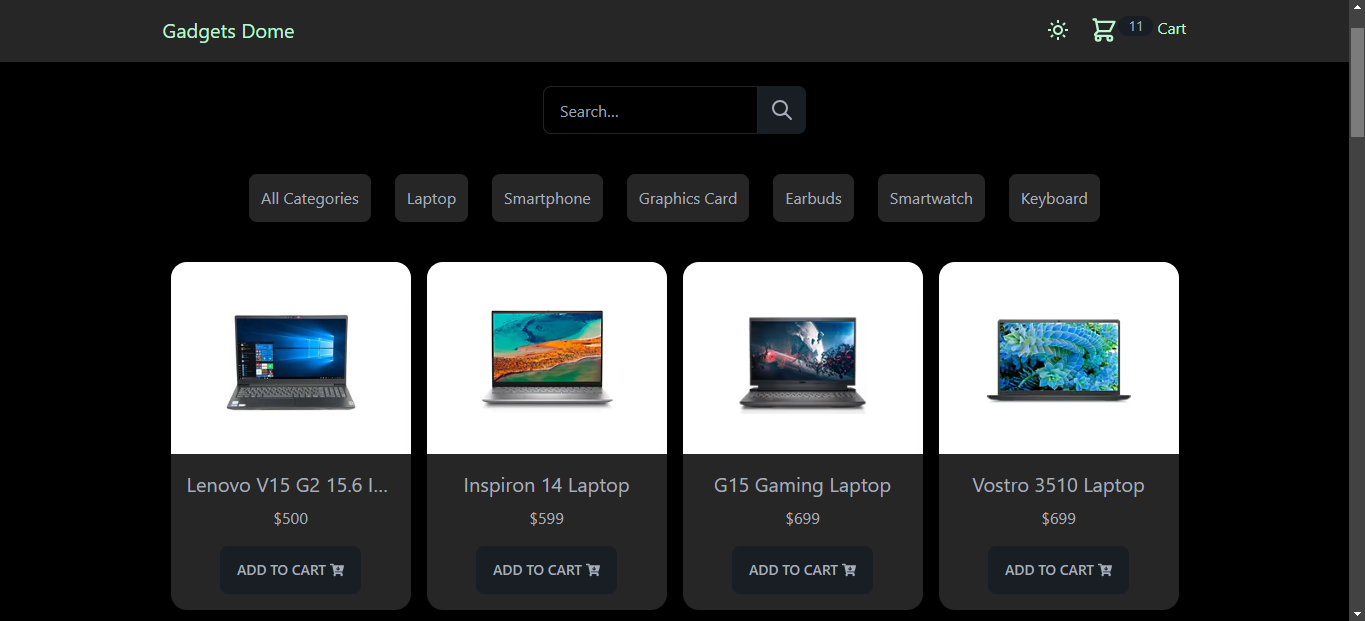
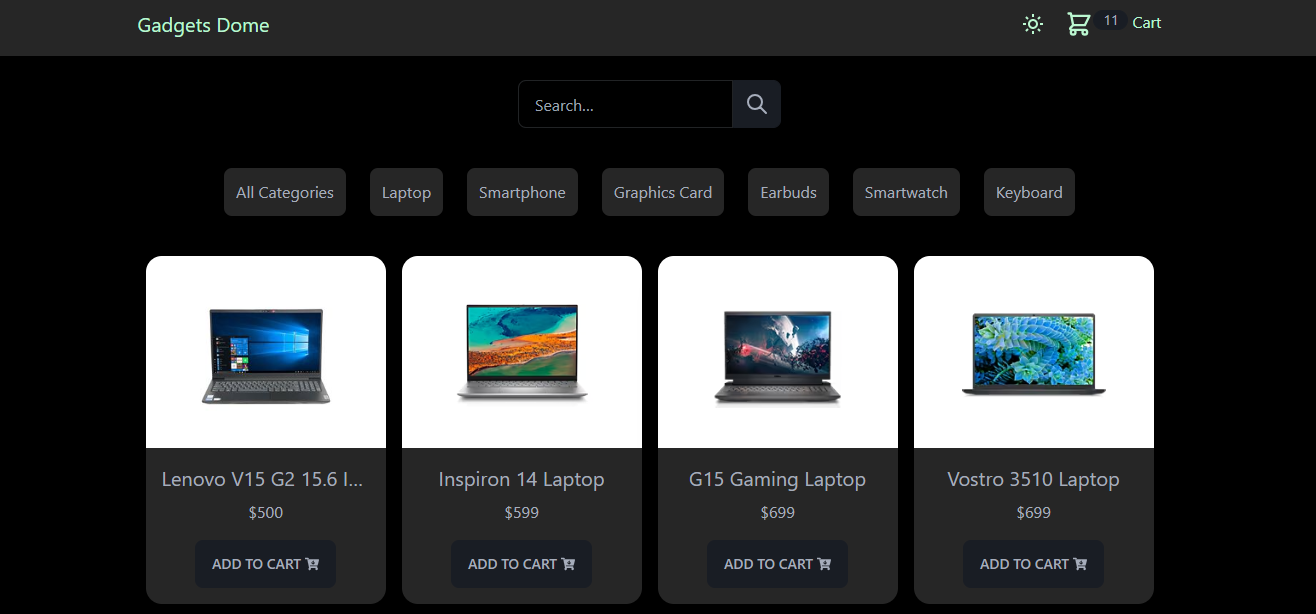
update

diff --git a/src/components/projects/Projects.css b/src/components/projects/Projects.css
@@ -1,82 +1,84 @@
 .projects {
-    margin-bottom: 4rem;
+  margin-bottom: 4rem;
 }
 
 .portfolio__container {
-    grid-template-columns: repeat(2, 1fr);
-    gap: 2.5rem;
-    padding: 0 2.8rem;
+  grid-template-columns: repeat(2, 1fr);
+  gap: 2.5rem;
+  padding: 0 2.8rem;
 }
 
 .portfolio__item {
-    display: grid;
-    place-items: center;
-    background-color: var(--container-color);
-    padding: 1.2rem;
-    border-radius: 2rem;
-    border: 1px solid transparent;
-    transition: .3s;
+  display: grid;
+  place-items: center;
+  background-color: var(--container-color);
+  padding: 0.2rem;
+  border-radius: 2rem;
+  border: 1px solid transparent;
+  transition: 0.3s;
 }
 
 .portfolio__item h3 {
-    margin: 1.2rem 0 2rem;
+  margin: 1.2rem 0 2rem;
 }
 
 .portfolio__item:hover {
-    background-color: transparent;
-    border: 1px solid var(--container-color);
+  background-color: transparent;
+  border: 1px solid var(--container-color);
 }
 
 .portfolio__item-image {
-    border-radius: 1.5rem;
-    overflow: hidden;
+  border-radius: 1.5rem;
+  overflow: hidden;
 }
 
 .portfolio__image {
-    width: 100%;
-    object-fit: cover;
+  width: 100%;
+  height: 100%;
+  object-fit: cover;
+}
+
+.portfolio_item-details {
+  padding: 0 1rem 1rem;
+  text-align: center;
 }
 
 .portfolio__item-cta {
-    display: flex;
-    gap: 1rem;
-    margin-bottom: 1rem;
+  display: flex;
+  gap: 1rem;
+  margin-bottom: 1rem;
 }
 
 .portfolio__icon {
-    margin-left: 0.3rem;
+  margin-left: 0.3rem;
 }
-
-
 
 /*=============== BREAKPOINTS ===============*/
 /* For large devices */
 @media screen and (max-width: 992px) {
-    .portfolio__container{
-        gap: 1.2rem;
-    }
-    .portfolio__btn {
-        padding: 1rem 1rem;
-    } 
+  .portfolio__container {
+    gap: 1.2rem;
   }
-  
-  /* For medium devices */
-  @media screen and (max-width: 768px) {
-    .portfolio__container {
-        grid-template-columns: 1fr;
-        gap: 1rem;
-        padding: 0;
-    }
+  .portfolio__btn {
+    padding: 1rem 1rem;
+  }
+}
 
+/* For medium devices */
+@media screen and (max-width: 768px) {
+  .portfolio__container {
+    grid-template-columns: 1fr;
+    gap: 1rem;
+    padding: 0;
   }
-  
-  @media screen and (max-width: 576px) {
-  }
-  
-  /* For small devices */
-  @media screen and (max-width: 421px) {
-    .portfolio__btn {
-        padding: 1rem 0.75rem;
-    } 
-  }
+}
 
+@media screen and (max-width: 576px) {
+}
+
+/* For small devices */
+@media screen and (max-width: 421px) {
+  .portfolio__btn {
+    padding: 1rem 0.75rem;
+  }
+}

diff --git a/src/components/projects/Projects.jsx b/src/components/projects/Projects.jsx
@@ -1,8 +1,8 @@
 import React from "react";
 import "./Projects.css";
 import IMG1 from "../../assets/orion-anime.png";
-import IMG2 from "../../assets/vega-chat.png";
-import IMG3 from "../../assets/gadgets-dome.png";
+import IMG2 from "../../assets/gadgets-dome.png";
+import IMG3 from "../../assets/vega-chat.png";
 // import IMG4 from "../../assets/tenzies.png";
 
 const data = [
@@ -16,21 +16,21 @@ const data = [
   {
     id: 2,
     image: IMG2,
-    title: "Vega Chat",
-    github: "https://github.com/azacdev/vega-chat.git",
-    demo: "https://vega-chat.vercel.app/",
+    title: "Gadgets Dome",
+    github: "https://github.com/azacdev/gadgets-dome.git",
+    demo: "https://gadgets-dome.vercel.app",
   },
   {
     id: 3,
     image: IMG3,
-    title: "Gadgets Dome",
-    github: "https://github.com/azacdev/gadgets-dome.git",
-    demo: "https://azacdev.github.io/meme-generator/",
+    title: "Vega Chat",
+    github: "https://github.com/azacdev/vega-chat.git",
+    demo: "https://vega-chat.vercel.app/",
   },
   // {
   //   id: 4,
   //   image: IMG4,
-  //   title: "Tenzies Game",
+  //   title: "Meme Generator",
   //   github: "https://github.com/azacdev/tenzies-game.git",
   //   demo: "https://azacdev.github.io/tenzies-game/",
   // },
@@ -42,13 +42,12 @@ const Projects = () => {
       <h2 className="section__title projects">Projects</h2>
 
       <div className="portfolio__container container grid">
-        {data.map(({ id, image, title, github, demo }) => {
-          return (
-            <article className="portfolio__item" key={id}>
-              <div className="portfolio__item-image">
-                <img src={image} alt={title} className="portfolio__image" />
-              </div>
-
+        {data.map(({ id, image, title, github, demo }) => (
+          <article className="portfolio__item" key={id}>
+            <div className="portfolio__item-image">
+              <img src={image} alt={title} className="portfolio__image" />
+            </div>
+            <div className="portfolio_item-details">
               <h3>{title}</h3>
               <div className="portfolio__item-cta">
                 <a
@@ -68,9 +67,10 @@ const Projects = () => {
                   <i class="uil uil-browser portfolio__icon"></i>
                 </a>
               </div>
-            </article>
-          );
-        })}
+            </div>
+          </article>
+          )
+        )}
       </div>
     </section>
   );

diff --git a/src/App.jsx b/src/App.jsx
@@ -3,7 +3,6 @@ import Header from './components/header/Header'
 import Home from './components/home/Home'
 import About from './components/about/About'
 import Skills from './components/skills/Skills'
-import Experience from './components/experience/Experience'
 import Contact from './components/contact/Contact'
 import Footer from './components/footer/Footer'
 import ScrollUp from './components/scrollup/ScrollUp'
@@ -18,7 +17,6 @@ const App = () => {
       <About />
       <Skills />
       <Projects />
-      <Experience />
       <Contact />
     </main>
 

diff --git a/src/App.css b/src/App.css
@@ -7,14 +7,14 @@
 
   /*========== Colors ==========*/
   /*Color mode HSL(hue, saturation, lightness)*/
-  /* --hue: 0;
+   /* --hue: 0;
   --sat: 0%;
   --title-color: hsl(var(--hue), var(--sat), 20%);
   --title-color-dark: hsl(var(--hue), var(--sat), 0%);
   --text-color: hsl(var(--hue), var(--sat), 46%);
   --body-color: hsl(var(--hue), var(--sat), 98%);
   --container-color: #fff;
-   */
+    */
   --hue: 0;
   --sat: 0%;
   --title-color: #fff;
